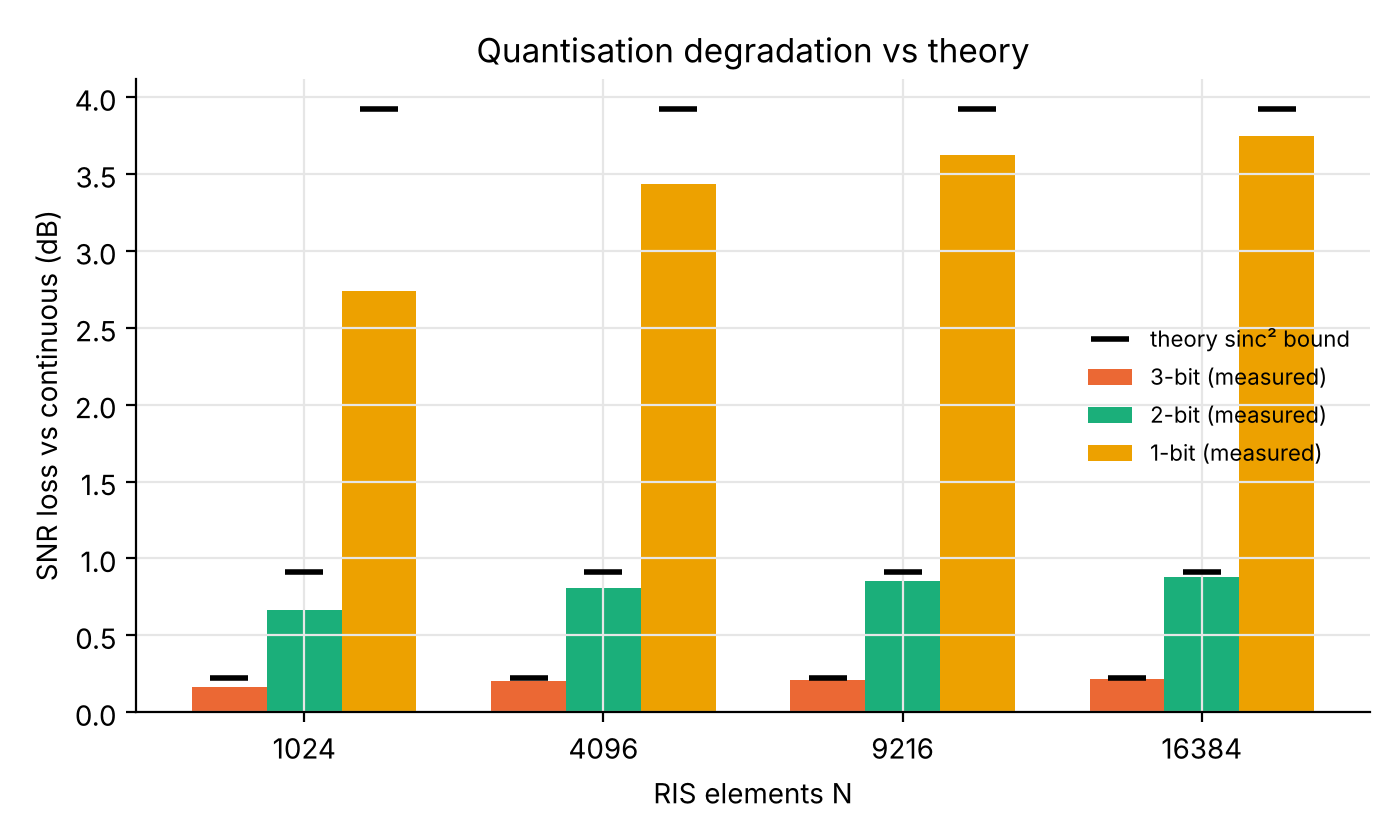
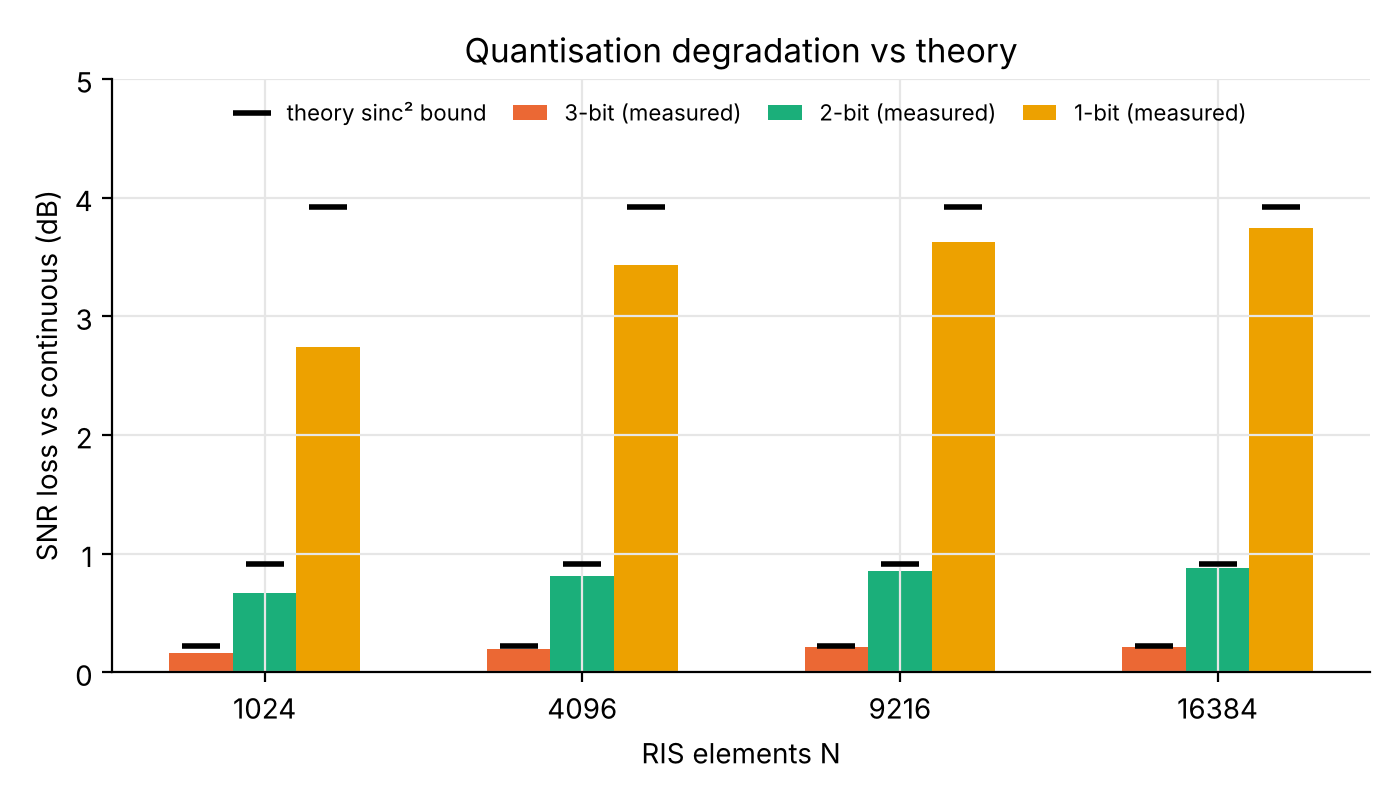
changes to user count

diff --git a/paper_figs.py b/paper_figs.py
@@ -54,13 +54,13 @@ for s in N_SIDES:
         rows.append(dict(N=s*s, resolution=BL[b], loss_db=float(f8[(f8.N == s*s) & (f8.resolution == "continuous")].mean_snr_db.iloc[0]
                                                                - f8[(f8.N == s*s) & (f8.resolution == BL[b])].mean_snr_db.iloc[0]), theory_db=theory[b]))
 f9 = pd.DataFrame(rows); f9.to_csv("csv/fig09_quantization_loss_vs_theory.csv", index=False)
-fig, ax = plt.subplots(figsize=(7, 4.2)); w = 0.25
+fig, ax = plt.subplots(figsize=(7, 4)); w = 0.2
 for i, b in enumerate((3, 2, 1)):
     d = f9[f9.resolution == BL[b]]
     ax.bar(np.arange(4) + (i-1)*w, d.loss_db, w, color=COL[b], label=f"{BL[b]} (measured)")
     ax.plot(np.arange(4) + (i-1)*w, d.theory_db, "_", color="k", ms=14, mew=2, label="theory sinc² bound" if i == 0 else None)
-ax.set_xticks(range(4)); ax.set_xticklabels(Ns); ax.set_xlabel("RIS elements N"); ax.set_ylabel("SNR loss vs continuous (dB)")
-ax.legend(frameon=False, fontsize=8); ax.set_title("Quantisation degradation vs theory")
+ax.set_ylim(0, 5.0); ax.set_xticks(range(4)); ax.set_xticklabels(Ns); ax.set_xlabel("RIS elements N"); ax.set_ylabel("SNR loss vs continuous (dB)")
+ax.legend(frameon=False, fontsize=8, ncol=4, loc="upper center", handlelength=1.5, columnspacing=1.2); ax.set_title("Quantisation degradation vs theory")
 plt.tight_layout(); plt.savefig("out/paper_fig09_quantization_loss_vs_theory.png", dpi=200)
 
 rows = []

diff --git a/compare_models.py b/compare_models.py
@@ -30,5 +30,8 @@ for n in RIS_CAND:
 rk = pd.DataFrame(rk); rk.to_csv("out/three_model_per_candidate_N16384.csv", index=False); print(rk.to_string(index=False))
 
 from scipy.stats import spearmanr
-for m in ("1", "1b"):
-    print(m, "Spearman vs RT (mean SNR, N=16384):", round(spearmanr(rk[f"P{m}_snr"], rk["P2_snr"]).correlation, 2))
+sp = [dict(model={"1": "Phase 1 ideal", "1b": "Phase 1b blockage-aware"}[m], reference="Phase 2 ray traced",
+           metric="mean SNR at best orientation, N=16384", n_sites=len(rk),
+           spearman_rho=round(spearmanr(rk[f"P{m}_snr"], rk["P2_snr"]).correlation, 2)) for m in ("1", "1b")]
+import os; os.makedirs("csv", exist_ok=True)
+pd.DataFrame(sp).to_csv("csv/table_spearman.csv", index=False); print(pd.DataFrame(sp).to_string(index=False))

diff --git a/fig_scene.py b/fig_scene.py
@@ -15,7 +15,7 @@ for n,(x0,x1,y0,y1,h,m) in g["buildings"].items():
 X0,X1,Y0,Y1 = g["ground"]
 ax.add_collection3d(Poly3DCollection([[(X0,Y0,0),(X1,Y0,0),(X1,Y1,0),(X0,Y1,0)]], facecolor="#e9e7e1", alpha=0.3))
 ue,valid,_ = ue_grid()
-ax.scatter(ue[valid,0],ue[valid,1],ue[valid,2],s=0.6,c="#2a78d6",alpha=0.5,label="UE grid (1,615 pts, side street)")
+ax.scatter(ue[valid,0],ue[valid,1],ue[valid,2],s=0.6,c="#2a78d6",alpha=0.5,label="UE grid (1,587 pts, side street)")
 ax.scatter(*BS, s=90, c="#e34948", marker="^", depthshade=False, label="BS (28 GHz, 10 m)")
 for k,(c,yaw) in RIS_CAND.items():
     ax.scatter(*c, s=60, c="#eb6834", marker="s", depthshade=False)

diff --git a/README.md b/README.md
@@ -62,8 +62,14 @@ jupyter lab demo.ipynb  # scene + rays in an interactive 3D view
 | Table 5 | `final_stats.py` | `csv/table05_and_fig06_stats_all_N.csv` |
 | Table 6 codebook | `codebook2.py`, `codebook_k12.py` | `csv/table06_codebook.csv` |
 | Table 7 second BS | `compare_bs2.py` | `csv/table07_second_bs.csv` |
+| Spearman ranking (§4.1) | `compare_models.py` | `csv/table_spearman.csv` |
 
 Extra explainer figures (not in the paper): `fig_codebook_visual.py` (codebook K), `fig_quant_visual.py` (phase quantization).
+
+## Notes
+- **UE count.** The grid has 19 × 85 = 1,615 points; the 28 points inside the kiosk footprint are removed, leaving 1,587. Files covering the whole grid (for example `partB/noRIS_baseline_per_UE.csv`) have 1,615 rows, and the 1,587 used in the paper are marked `valid = True`.
+- **Zero-path UEs.** Three valid UEs (UE0920–UE0922, at x = 39–41 m, y = 59 m, directly behind the kiosk) receive no ray-traced path without an RIS. They are stored at −173 dB SNR in `partB/noRIS_baseline_per_UE.csv` and, like every UE, are floored at −60 dB for the mean SNR (Eq. for the mean SNR in the paper). They are included in the −13.9 dB no-RIS mean; excluding them would give −13.8 dB.
+- **Spearman ranking.** The rank correlations between each simplified model and ray tracing (0.43 for Phase 1, 0.66 for Phase 1b; six candidate sites) are saved by `compare_models.py` in `csv/table_spearman.csv`.
 
 ## Statistics
 Point estimates are full-grid values over all 1,587 UEs (deterministic ray tracing). ± values are the SD over 20 random subsamples of 200 UEs (seed 2026). Phase noise uses 20 Monte Carlo draws.
